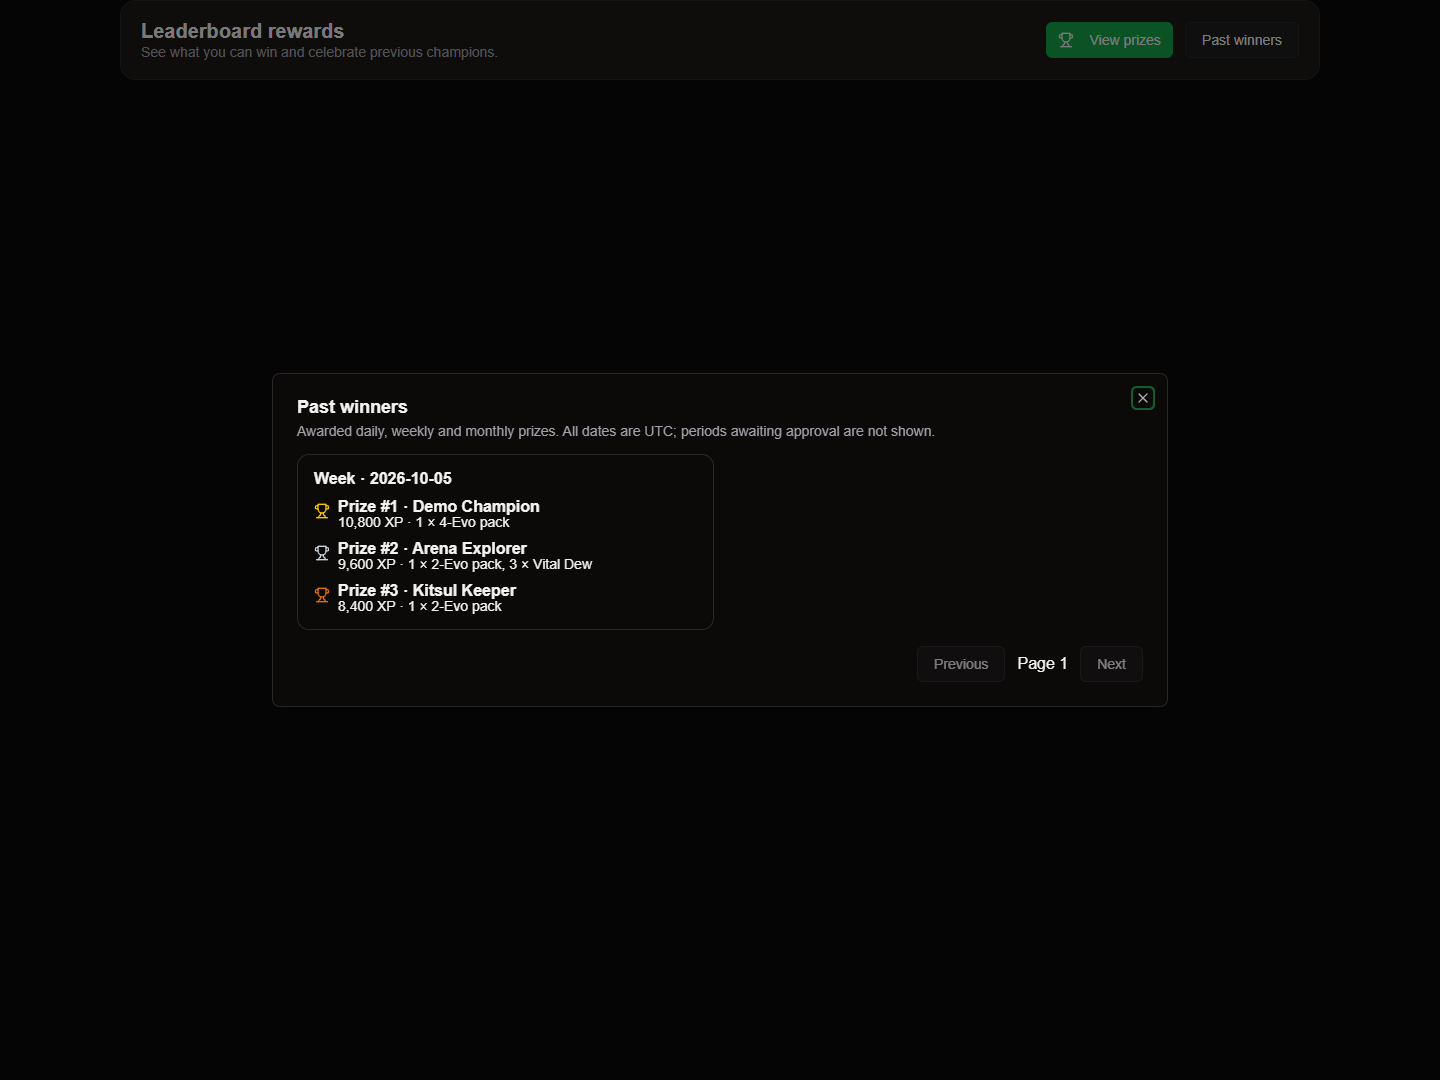
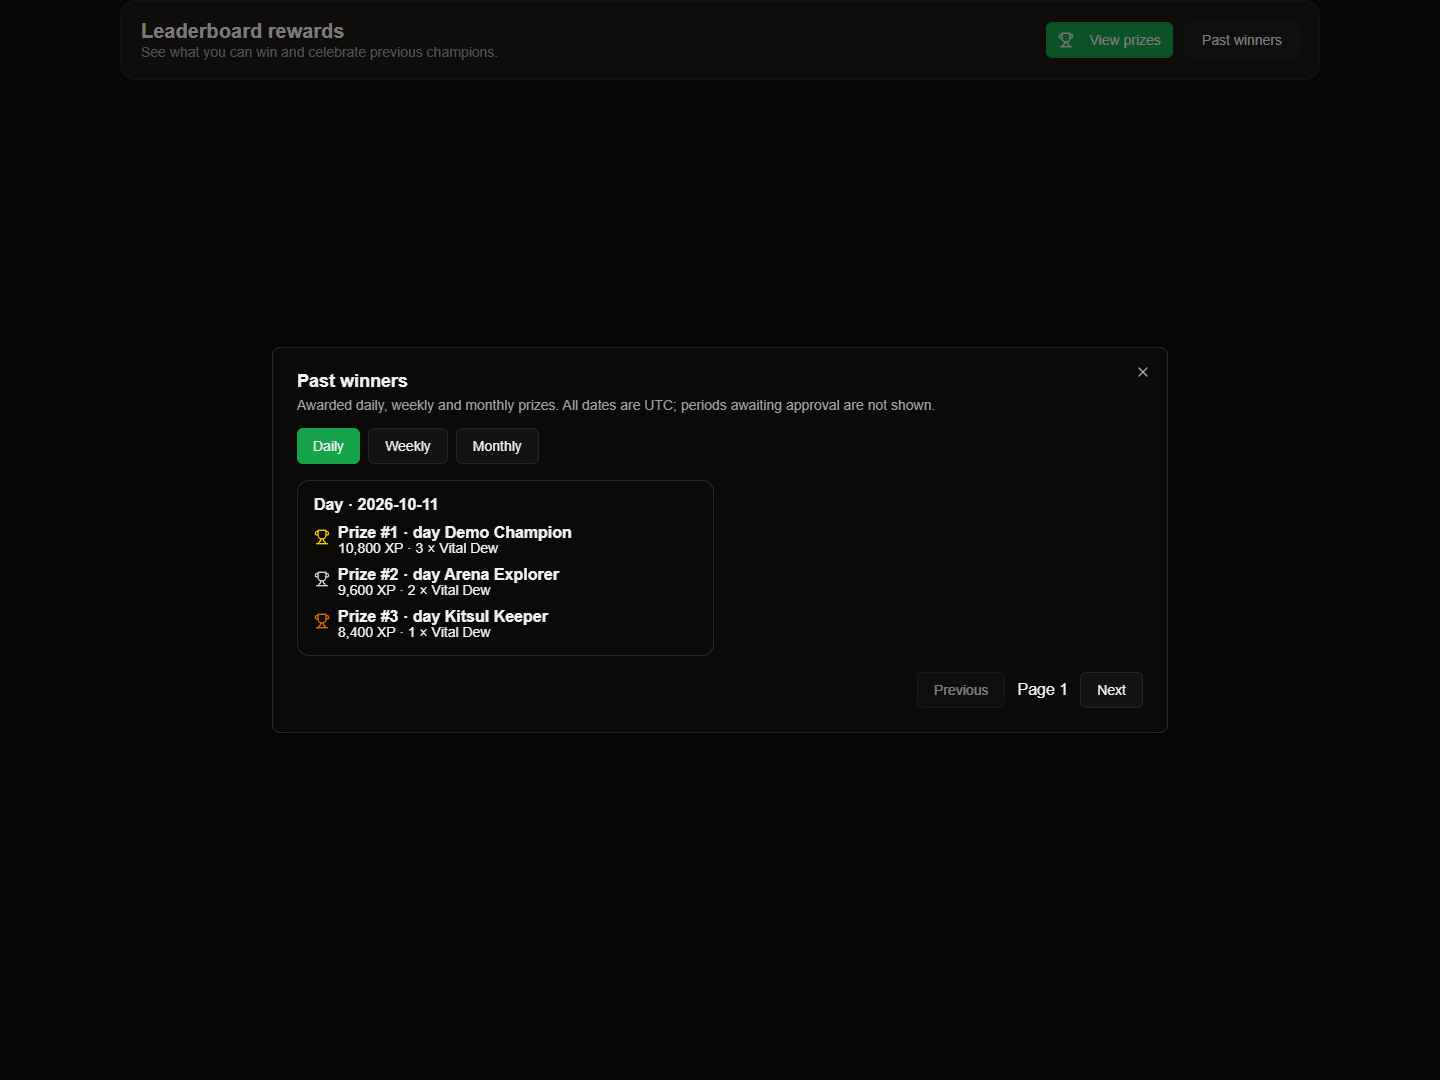
Add period tabs to past winners dialog

Changed region(s): [[0.1875, 0.3361, 0.6562, 0.6111], [0.6562, 0.6111, 0.7812, 0.6417], [0.7812, 0.3361, 0.8125, 0.3667]]

diff --git a/apps/website/src/components/player/leaderboard-rewards.tsx b/apps/website/src/components/player/leaderboard-rewards.tsx
@@ -1,7 +1,7 @@
 "use client";
 import Image from "next/image";
 import { Dialog,DialogTrigger,DialogContent,DialogHeader,DialogTitle,DialogDescription } from "@workspace/ui/components/dialog";
-import { useState } from "react";
+import { useState, type KeyboardEvent } from "react";
 import { useQuery } from "@tanstack/react-query";
 import { Trophy } from "lucide-react";
 import { Button } from "@workspace/ui/components/button";
@@ -24,13 +24,21 @@ const prizeGuide={
 export function PrizeGuide({period}:{period:'day'|'week'|'month'}){
  return <div className="grid gap-4 sm:grid-cols-3">{prizeGuide[period].map((items,index)=>{const medal=(['gold','silver','bronze'] as const)[index]!;return <article key={medal} className="min-w-0 rounded-2xl border bg-primary/5 p-4 text-center"><Trophy role="img" aria-label={`${medal} trophy`} className={`mx-auto size-10 ${colours[medal]}`}/><h3 className="mt-2 text-lg font-bold capitalize">{medal} · {['1st','2nd','3rd'][index]} place</h3><div className="mt-4 space-y-4">{items.map(item=><div key={item.productId}><Image unoptimized width={128} height={128} src={`/inventory/items/${item.productId}.png`} alt={rewardItemName(item.productId)} className="mx-auto size-24 object-contain sm:size-28"/><p className="mt-2 font-semibold">{item.quantity} × {rewardItemName(item.productId)}</p></div>)}</div>{period==='month'&&<div className="mt-4 rounded-lg border bg-primary/10 p-3"><Trophy aria-hidden="true" className={`mx-auto size-6 ${colours[medal]}`}/><p className="mt-1 text-sm capitalize">{medal} monthly champion badge</p></div>}</article>;})}</div>;
 }
+function historyTabKey(event:KeyboardEvent<HTMLButtonElement>){
+ const tabs=Array.from(event.currentTarget.parentElement!.querySelectorAll<HTMLButtonElement>('[role="tab"]'));
+ const index=tabs.indexOf(event.currentTarget);
+ const next=event.key==='ArrowRight'?(index+1)%tabs.length:event.key==='ArrowLeft'?(index+tabs.length-1)%tabs.length:event.key==='Home'?0:event.key==='End'?tabs.length-1:null;
+ if(next!==null){event.preventDefault();tabs[next]!.focus();tabs[next]!.click();}
+}
 export function LeaderboardPrizes(){
- const [page,setPage]=useState(0),[prizesOpen,setPrizesOpen]=useState(false),[historyOpen,setHistoryOpen]=useState(false),[period,setPeriod]=useState<'day'|'week'|'month'>('day');
- const query=useQuery({queryKey:['leaderboard-rewards-archive',page],enabled:historyOpen,queryFn:async()=>archiveSchema.parse(await read(`/api/leaderboard/rewards/archive?page=${page}`)),staleTime:60000,retry:1});
+ const [page,setPage]=useState(0),[prizesOpen,setPrizesOpen]=useState(false),[historyOpen,setHistoryOpen]=useState(false),[period,setPeriod]=useState<'day'|'week'|'month'>('day'),[historyPeriod,setHistoryPeriod]=useState<'day'|'week'|'month'>('day');
+ const query=useQuery({queryKey:['leaderboard-rewards-archive',historyPeriod,page],enabled:historyOpen,queryFn:async()=>archiveSchema.parse(await read(`/api/leaderboard/rewards/archive?period=${historyPeriod}&page=${page}`)),staleTime:60000,retry:1});
  return <section className="flex flex-wrap items-center justify-between gap-4 rounded-2xl border bg-card p-5"><div><h2 className="text-xl font-bold">Leaderboard rewards</h2><p className="mt-1 text-sm text-muted-foreground">See what you can win and celebrate previous champions.</p></div><div className="flex flex-wrap gap-3">
  <Dialog open={prizesOpen} onOpenChange={setPrizesOpen}><DialogTrigger asChild><Button><Trophy aria-hidden="true" className="mr-2 size-4"/>View prizes</Button></DialogTrigger><DialogContent className="max-h-[85vh] overflow-y-auto sm:max-w-4xl"><DialogHeader><DialogTitle>Leaderboard prizes</DialogTitle><DialogDescription>Earn ranked trainer XP to compete for these prizes. Tied qualifying ranks receive the same reward.</DialogDescription></DialogHeader><div className="flex flex-wrap gap-2" aria-label="Prize period">{(['day','week','month'] as const).map(id=><Button key={id} aria-pressed={period===id} variant={period===id?'default':'outline'} onClick={()=>setPeriod(id)}>{id==='day'?'Daily':id==='week'?'Weekly':'Monthly'}</Button>)}</div><PrizeGuide period={period}/><p className="text-sm text-muted-foreground">Qualify with positive XP and at least {period==='day'?3:period==='week'?5:10} completed ranked battles in this UTC calendar period. The top three qualifying XP ranks win; prize place may differ from public leaderboard rank. During beta, recipients must be approved testers.</p><p className="text-sm text-muted-foreground">Daily prizes are automatic. Weekly and monthly prizes need administrator approval. Packs arrive unopened in Inventory. All-time has no recurring prize.</p></DialogContent></Dialog>
  <Dialog open={historyOpen} onOpenChange={setHistoryOpen}><DialogTrigger asChild><Button variant="outline">Past winners</Button></DialogTrigger><DialogContent className="max-h-[85vh] overflow-y-auto sm:max-w-4xl"><DialogHeader><DialogTitle>Past winners</DialogTitle><DialogDescription>Awarded daily, weekly and monthly prizes. All dates are UTC; periods awaiting approval are not shown.</DialogDescription></DialogHeader>
- {query.isPending&&<p>Loading past winners…</p>}{query.isError&&<p role="alert">Past winners temporarily unavailable. <Button variant="outline" onClick={()=>void query.refetch()}>Retry</Button></p>}{query.data?.periods.length===0&&<p className="text-sm text-muted-foreground">No awarded periods yet.</p>}
+ <div role="tablist" aria-label="Past winners period" className="flex flex-wrap gap-2">{(['day','week','month'] as const).map(id=><Button key={id} role="tab" id={`winners-tab-${id}`} aria-controls="winners-panel" aria-selected={historyPeriod===id} tabIndex={historyPeriod===id?0:-1} variant={historyPeriod===id?'default':'outline'} onKeyDown={historyTabKey} onClick={()=>{setHistoryPeriod(id);setPage(0);}}>{id==='day'?'Daily':id==='week'?'Weekly':'Monthly'}</Button>)}</div>
+ <div id="winners-panel" role="tabpanel" aria-labelledby={`winners-tab-${historyPeriod}`} className="space-y-4">
+ {query.isPending&&<p>Loading past winners…</p>}{query.isError&&<p role="alert">Past winners temporarily unavailable. <Button variant="outline" onClick={()=>void query.refetch()}>Retry</Button></p>}{query.data?.periods.length===0&&<p className="text-sm text-muted-foreground">No awarded {historyPeriod==='day'?'daily':historyPeriod==='week'?'weekly':'monthly'} winners yet.</p>}
  <div className="grid gap-3 md:grid-cols-2">{query.data?.periods.map(p=><article key={p.id} className="rounded-xl border p-4"><h3 className="font-semibold capitalize">{p.period} · {p.start.slice(0,10)}</h3>{p.winners.length?p.winners.map((w,i)=><div key={`${w.name}:${i}`} className="mt-3 flex gap-2"><Trophy role="img" aria-label={`${(['gold','silver','bronze'] as const)[w.place-1]} trophy`} className={`mt-1 size-4 shrink-0 ${colours[(['gold','silver','bronze'] as const)[w.place-1]!]}`}/><div><strong>Prize #{w.place} · {w.name}</strong><p className="text-sm">{w.xp.toLocaleString()} XP · {w.items.map(item=>`${item.quantity} × ${rewardItemName(item.productId)}`).join(', ')}{w.badge?` + ${w.badge} badge`:''}</p></div></div>):<p className="mt-2 text-sm text-muted-foreground">No qualifying winners.</p>}</article>)}</div>
- <div className="flex flex-wrap justify-end gap-3"><Button variant="outline" disabled={page===0||query.isFetching} onClick={()=>setPage(p=>p-1)}>Previous</Button><span className="self-center">Page {page+1}</span><Button variant="outline" disabled={!query.data?.more||query.isFetching} onClick={()=>setPage(p=>p+1)}>Next</Button></div></DialogContent></Dialog></div></section>;
+ <div className="flex flex-wrap justify-end gap-3"><Button variant="outline" disabled={page===0||query.isFetching} onClick={()=>setPage(p=>p-1)}>Previous</Button><span className="self-center">Page {page+1}</span><Button variant="outline" disabled={!query.data?.more||query.isFetching} onClick={()=>setPage(p=>p+1)}>Next</Button></div></div></DialogContent></Dialog></div></section>;
 }

diff --git a/apps/website/src/lib/leaderboard/rewards-handler.ts b/apps/website/src/lib/leaderboard/rewards-handler.ts
@@ -13,7 +13,7 @@ export async function rewardsHandler(request:Request,kind:"archive"|"mine"|"admi
   if(!token||!/^[a-f0-9]{64}$/.test(token))return respond(401,{error:{code:"INVALID_SESSION"}});
  }
  try{
-  if(kind==="archive") {if([...url.searchParams.keys()].some(k=>k!=="page")||url.searchParams.getAll("page").length>1)return respond(400,{error:{code:"INVALID_REQUEST"}});const page=url.searchParams.get("page")??"0";if(!/^(0|[1-9]\d{0,5})$/.test(page)||Number(page)>100000)return respond(400,{error:{code:"INVALID_REQUEST"}});input={page:Number(page)};}
+  if(kind==="archive") {if([...url.searchParams.keys()].some(k=>k!=="page"&&k!=="period")||url.searchParams.getAll("page").length>1||url.searchParams.getAll("period").length>1)return respond(400,{error:{code:"INVALID_REQUEST"}});const page=url.searchParams.get("page")??"0";if(!/^(0|[1-9]\d{0,5})$/.test(page)||Number(page)>100000)return respond(400,{error:{code:"INVALID_REQUEST"}});const period=url.searchParams.get("period");if(period!==null&&!["day","week","month"].includes(period))return respond(400,{error:{code:"INVALID_REQUEST"}});input={page:Number(page),...(period===null?{}:{period})};}
   else if(url.search)return respond(400,{error:{code:"INVALID_REQUEST"}});
   if(kind==="admin"){
    if(!request.headers.get("content-type")?.startsWith("application/json"))return respond(415,{error:{code:"INVALID_REQUEST"}});

diff --git a/docs/leaderboard-rewards.md b/docs/leaderboard-rewards.md
@@ -56,3 +56,9 @@ Hosting remains unchanged. Recommended next step: restore AWS access, reconcile 
 ## Final verification checkpoint
 
 52 backend leaderboard/administration/hosted/pack-store tests and 19 website leaderboard/admin tests pass. Four existing hosted startup checks pass again after adding policy validation. Interactive browser checks additionally verify both prize/history dialogs, artwork loading, all three prize periods, keyboard focus, a 390px viewport and changed-preview confirmation. These are local synthetic checks; no hosted release or real grants occurred.
+
+### Past winners period tabs
+
+Past winners has independent Daily, Weekly and Monthly tabs. The API filters awarded periods before pagination; changing tabs returns to page one. Arrow keys, Home and End navigate the tabs. Closed dialogs do not load history. Existing unfiltered API callers remain supported. No database migration is required.
+
+Verification: six backend leaderboard tests and ten website leaderboard tests passed, as did the production build. Headless browser checks used real components with synthetic responses to verify each period, pagination reset, keyboard navigation and dialog focus. Screenshots are in website docs/evidence/leaderboard-rewards. Deployment remains pending AWS login renewal.
